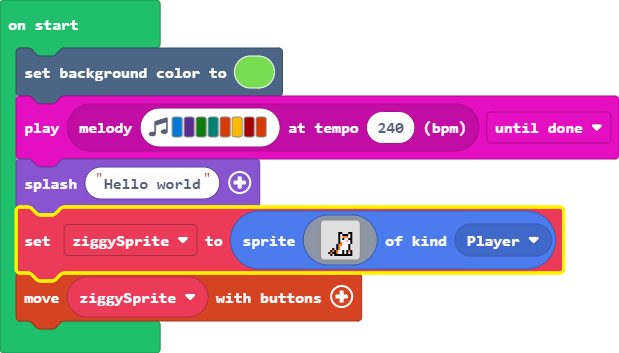
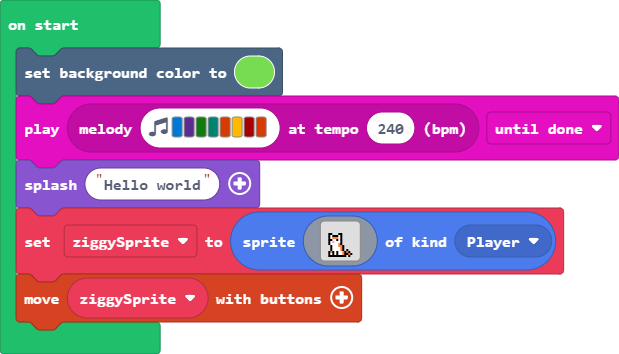
Change assets

diff --git a/images.g.ts b/images.g.ts
@@ -22,8 +22,8 @@ namespace myImages {
 . . f 4 f f 4 1 1 f 1 f . . . . 
 . . . f . f f f f f f f . . . . 
 `;
-            case "image1":
-            case "myImage":return img`
+            case "image3":
+            case "ziggyRight":return img`
 . . . . . . . . . . . . . . . . 
 . . . . . . . . . . . . . . . . 
 . . . . . . . . . . . . . . . . 
@@ -40,6 +40,25 @@ namespace myImages {
 . . . f 4 f 4 1 1 f 1 f 4 f . . 
 . . f 4 f f 4 1 1 f 1 f 1 f . . 
 . . . f . f f f f f f f f f . . 
+`;
+            case "image1":
+            case "ziggyLeft":return img`
+. . . . . . . . . . . . . . . . 
+. . . . . . . . . . . . . . . . 
+. . . . . . . . . . . . . . . . 
+. . . . . . . . . . . . . . . . 
+. . f f . . . f f . . . . . . . 
+. . f 1 f f f 1 f . . . . . . . 
+. . f 1 4 4 4 1 f . . . . . . . 
+. . f f 1 1 f 1 f . . . . . . . 
+. . f 1 3 1 1 1 f . . . . . . . 
+. . f 1 1 1 1 4 f . . . . . . . 
+. . . f 1 1 1 4 4 f . . . . . . 
+. . . f 1 1 1 1 4 f . . . . . . 
+. . . f 1 1 1 1 4 f . f . . . . 
+. . f 4 f 1 f 1 1 4 f 4 f . . . 
+. . f 1 f 1 f 1 1 4 f f 4 f . . 
+. . f f f f f f f f f . f . . . 
 `;
         }
         return null;

diff --git a/main.ts b/main.ts
@@ -1,5 +1,5 @@
 scene.setBackgroundColor(7)
 music.play(music.stringPlayable("E D G F B A C5 B ", 240), music.PlaybackMode.UntilDone)
 game.splash("Hello world")
-let ziggySprite = sprites.create(assets.image`myImage`, SpriteKind.Player)
+let ziggySprite = sprites.create(assets.image`ziggyLeft`, SpriteKind.Player)
 controller.moveSprite(ziggySprite)
